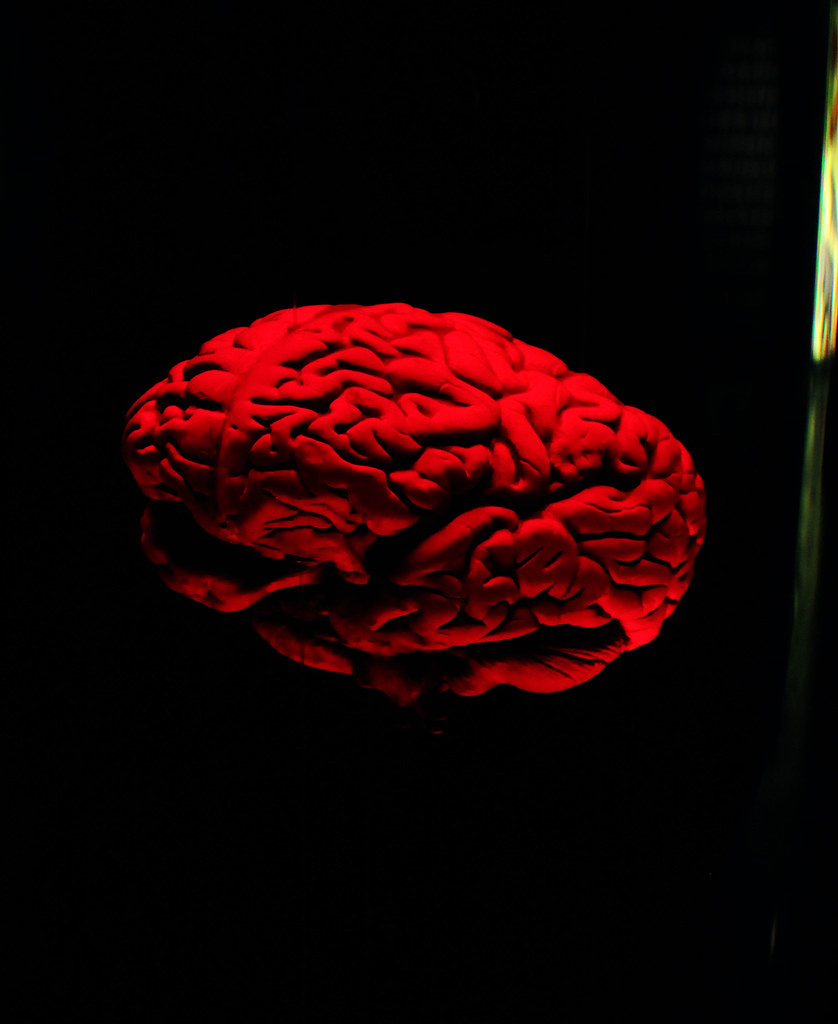
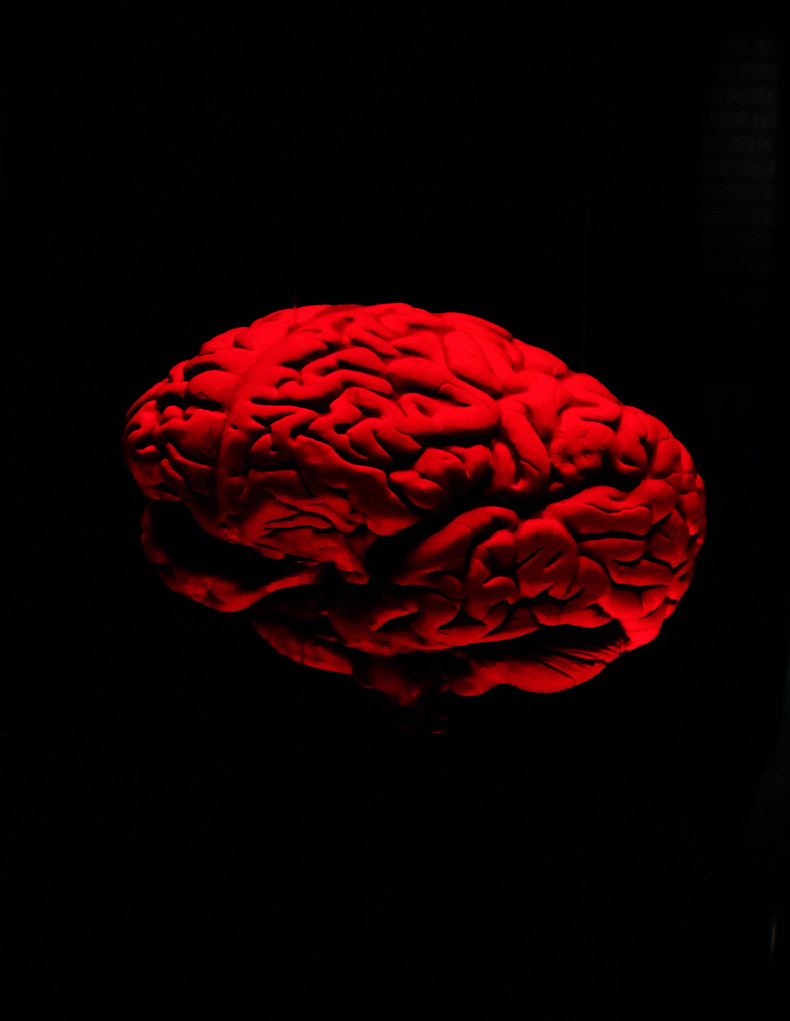
Adicionando unform para tratativas de formularios

Changed region(s): [[0.1519, 0.2733, 0.9114, 0.6983], [0.9418, 0.0, 1.0, 0.6072]]

diff --git a/src/pages/SignUp/index.tsx b/src/pages/SignUp/index.tsx
@@ -1,5 +1,6 @@
 import React from 'react';
 import { FiArrowLeft, FiHeart, FiMail, FiUser, FiLock } from 'react-icons/fi';
+import { Form } from '@unform/web';
 
 import Input from '../../components/Input';
 import Button from '../../components/Button';
@@ -7,15 +8,21 @@ import Button from '../../components/Button';
 import { Container, Content, Background } from './styles';
 
 const SignUp: React.FC = () => {
+  function handleSubmit(data: object): void {
+    console.log(data);
+  }
+
   return (
     <Container>
+      <Background />
+
       <Content>
         <div>
           <h1>PsyHeart</h1>
           <FiHeart size={40} />
         </div>
 
-        <form>
+        <Form initialData={{ name: 'Silvio' }} onSubmit={handleSubmit}>
           <h2>Faça seu cadastro</h2>
 
           <Input name="name" icon={FiUser} placeholder="Nome" />
@@ -30,15 +37,13 @@ const SignUp: React.FC = () => {
           <Button type="submit">Cadastrar</Button>
 
           <a href="forgot">Esqueci minha senha</a>
-        </form>
+        </Form>
 
         <a href="create">
           <FiArrowLeft />
           Voltar para login
         </a>
       </Content>
-
-      <Background />
     </Container>
   );
 };

diff --git a/src/components/Input/index.tsx b/src/components/Input/index.tsx
@@ -1,5 +1,6 @@
-import React, { InputHTMLAttributes } from 'react';
+import React, { InputHTMLAttributes, useEffect, useRef } from 'react';
 import { IconBaseProps } from 'react-icons';
+import { useField } from '@unform/core';
 
 import { Container } from './styles';
 
@@ -8,11 +9,22 @@ interface InputProps extends InputHTMLAttributes<HTMLInputElement> {
   icon: React.ComponentType<IconBaseProps>;
 }
 
-const Input: React.FC<InputProps> = ({ icon: Icon, ...rest }) => {
+const Input: React.FC<InputProps> = ({ name, icon: Icon, ...rest }) => {
+  const inputRef = useRef(null);
+  const { fieldName, defaultValue, error, registerField } = useField(name);
+
+  useEffect(() => {
+    registerField({
+      name: fieldName,
+      ref: inputRef.current,
+      path: 'value',
+    });
+  }, [fieldName, registerField]);
+
   return (
     <Container>
       {Icon && <Icon size={20} />}
-      <input {...rest} />
+      <input defaultValue={defaultValue} ref={inputRef} {...rest} />
     </Container>
   );
 };

diff --git a/src/pages/SignUp/styles.ts b/src/pages/SignUp/styles.ts
@@ -1,7 +1,7 @@
 import styled from 'styled-components';
 import { shade } from 'polished';
 
-import signInBackground from '../../assets/red-heart-shadow.jpg';
+import signUpBackground from '../../assets/red-brain.jpg';
 
 export const Container = styled.div`
   height: 100vh;
@@ -35,7 +35,7 @@ export const Content = styled.div`
   }
 
   form {
-    margin: 80px 0;
+    margin: 50px 0;
     max-width: 340px;
     text-align: center;
 
@@ -79,6 +79,6 @@ export const Content = styled.div`
 
 export const Background = styled.div`
   flex: 1;
-  background: url(${signInBackground}) no-repeat center;
+  background: url(${signUpBackground}) no-repeat center;
   background-size: cover;
 `;

diff --git a/src/App.tsx b/src/App.tsx
@@ -1,13 +1,14 @@
 import React from 'react';
 
 import SignIn from './pages/SignIn';
+import SignUp from './pages/SignUp';
 
 import GlobalStyle from './styles/global';
 
 const App: React.FC = () => {
   return (
     <>
-      <SignIn />
+      <SignUp />
       <GlobalStyle />
     </>
   );
